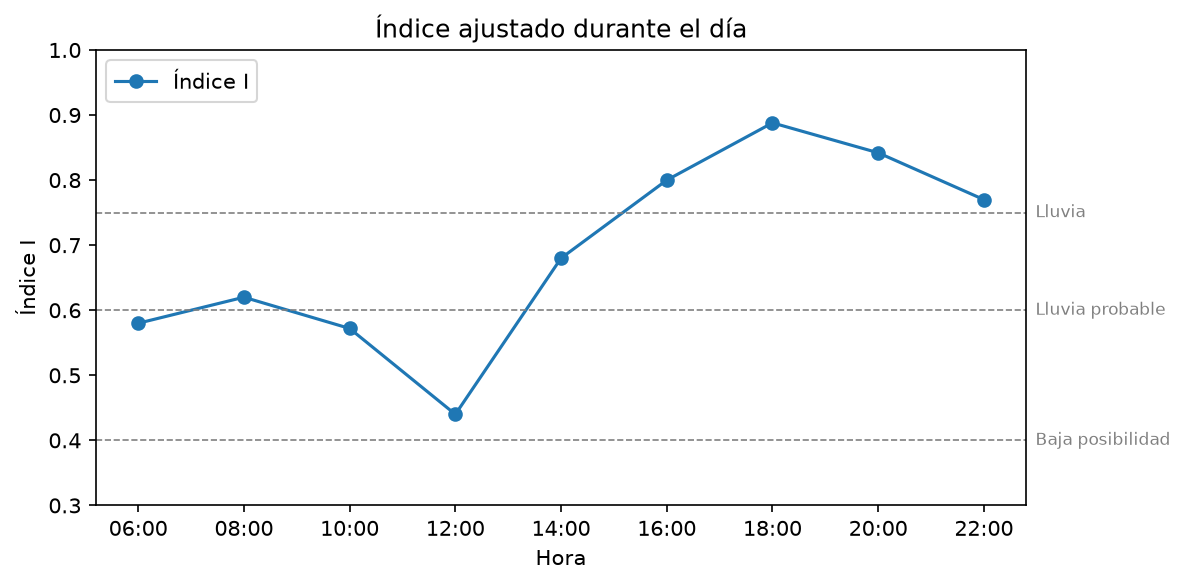
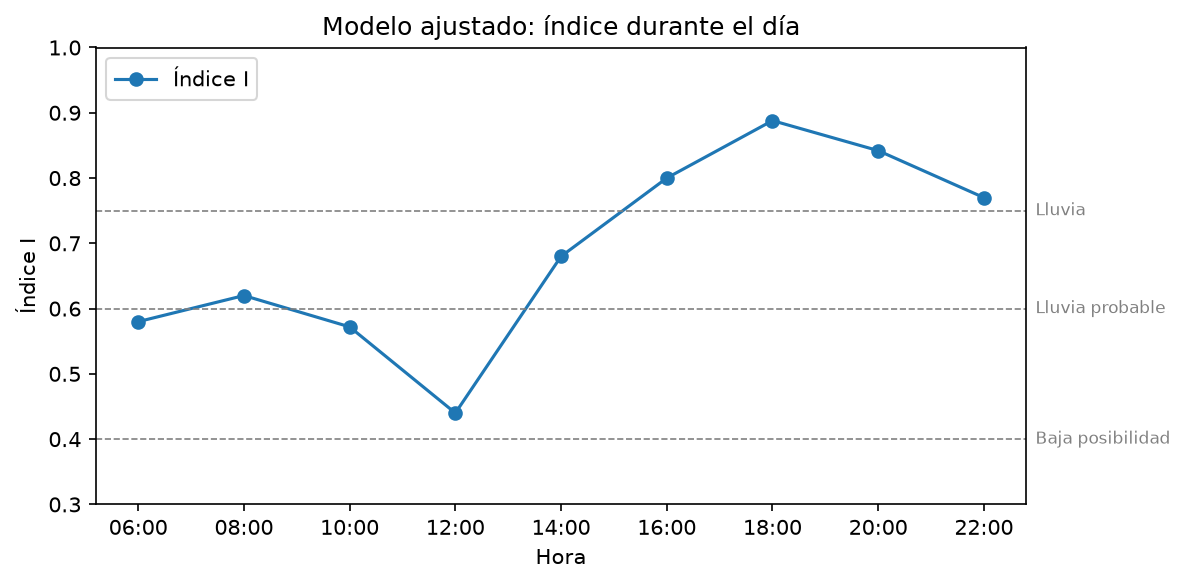
feat(unidad-1): label APE 1 charts as base and adjusted model

diff --git a/unidad-1/ape-1-indice-lluvia/codigo/simulacion_ape/controller/simulation_controller.py b/unidad-1/ape-1-indice-lluvia/codigo/simulacion_ape/controller/simulation_controller.py
@@ -14,10 +14,11 @@ def main():
 
     FIGURES_DIR.mkdir(exist_ok=True)
     chart_view.plot_inputs(base, FIGURES_DIR / "entradas.png")
-    for name, result, weights in (("original", base, WEIGHTS), ("ajustado", adjusted, ADJUSTED_WEIGHTS)):
+    models = (("original", "Modelo base", base, WEIGHTS), ("ajustado", "Modelo ajustado", adjusted, ADJUSTED_WEIGHTS))
+    for name, label, result, weights in models:
         chart_view.plot_contributions(
-            result, weights, f"Aporte de cada variable al índice {name}", FIGURES_DIR / f"contribuciones_{name}.png"
+            result, weights, f"{label}: aporte de cada variable al índice", FIGURES_DIR / f"contribuciones_{name}.png"
         )
-        chart_view.plot_index(result, f"Índice {name} durante el día", FIGURES_DIR / f"indice_{name}.png")
+        chart_view.plot_index(result, f"{label}: índice durante el día", FIGURES_DIR / f"indice_{name}.png")
     chart_view.plot_comparison(base, adjusted, FIGURES_DIR / "comparacion.png")
     console_view.show_figures_saved(FIGURES_DIR)

diff --git a/unidad-1/ape-1-indice-lluvia/codigo/simulacion_ape/view/chart_view.py b/unidad-1/ape-1-indice-lluvia/codigo/simulacion_ape/view/chart_view.py
@@ -53,8 +53,8 @@ def plot_index(result, title, path):
 
 def plot_comparison(base, adjusted, path):
     fig, ax = plt.subplots(figsize=(8, 4))
-    ax.plot(HOURS, base["index"], marker="o", label="Índice original (0.5·H + 0.3·N + 0.2·Tf)")
-    ax.plot(HOURS, adjusted["index"], marker="s", linestyle="--", label="Índice ajustado (0.4·H + 0.4·N + 0.2·Tf)")
+    ax.plot(HOURS, base["index"], marker="o", label="Modelo base (0.5·H + 0.3·N + 0.2·Tf)")
+    ax.plot(HOURS, adjusted["index"], marker="s", linestyle="--", label="Modelo ajustado (0.4·H + 0.4·N + 0.2·Tf)")
     _threshold_lines(ax)
-    ax.set(xlabel="Hora", ylabel="Índice I", title="Comparación del índice original y ajustado", ylim=(0.3, 1))
+    ax.set(xlabel="Hora", ylabel="Índice I", title="Comparación del modelo base y el modelo ajustado", ylim=(0.3, 1))
     _save(fig, ax, path)
